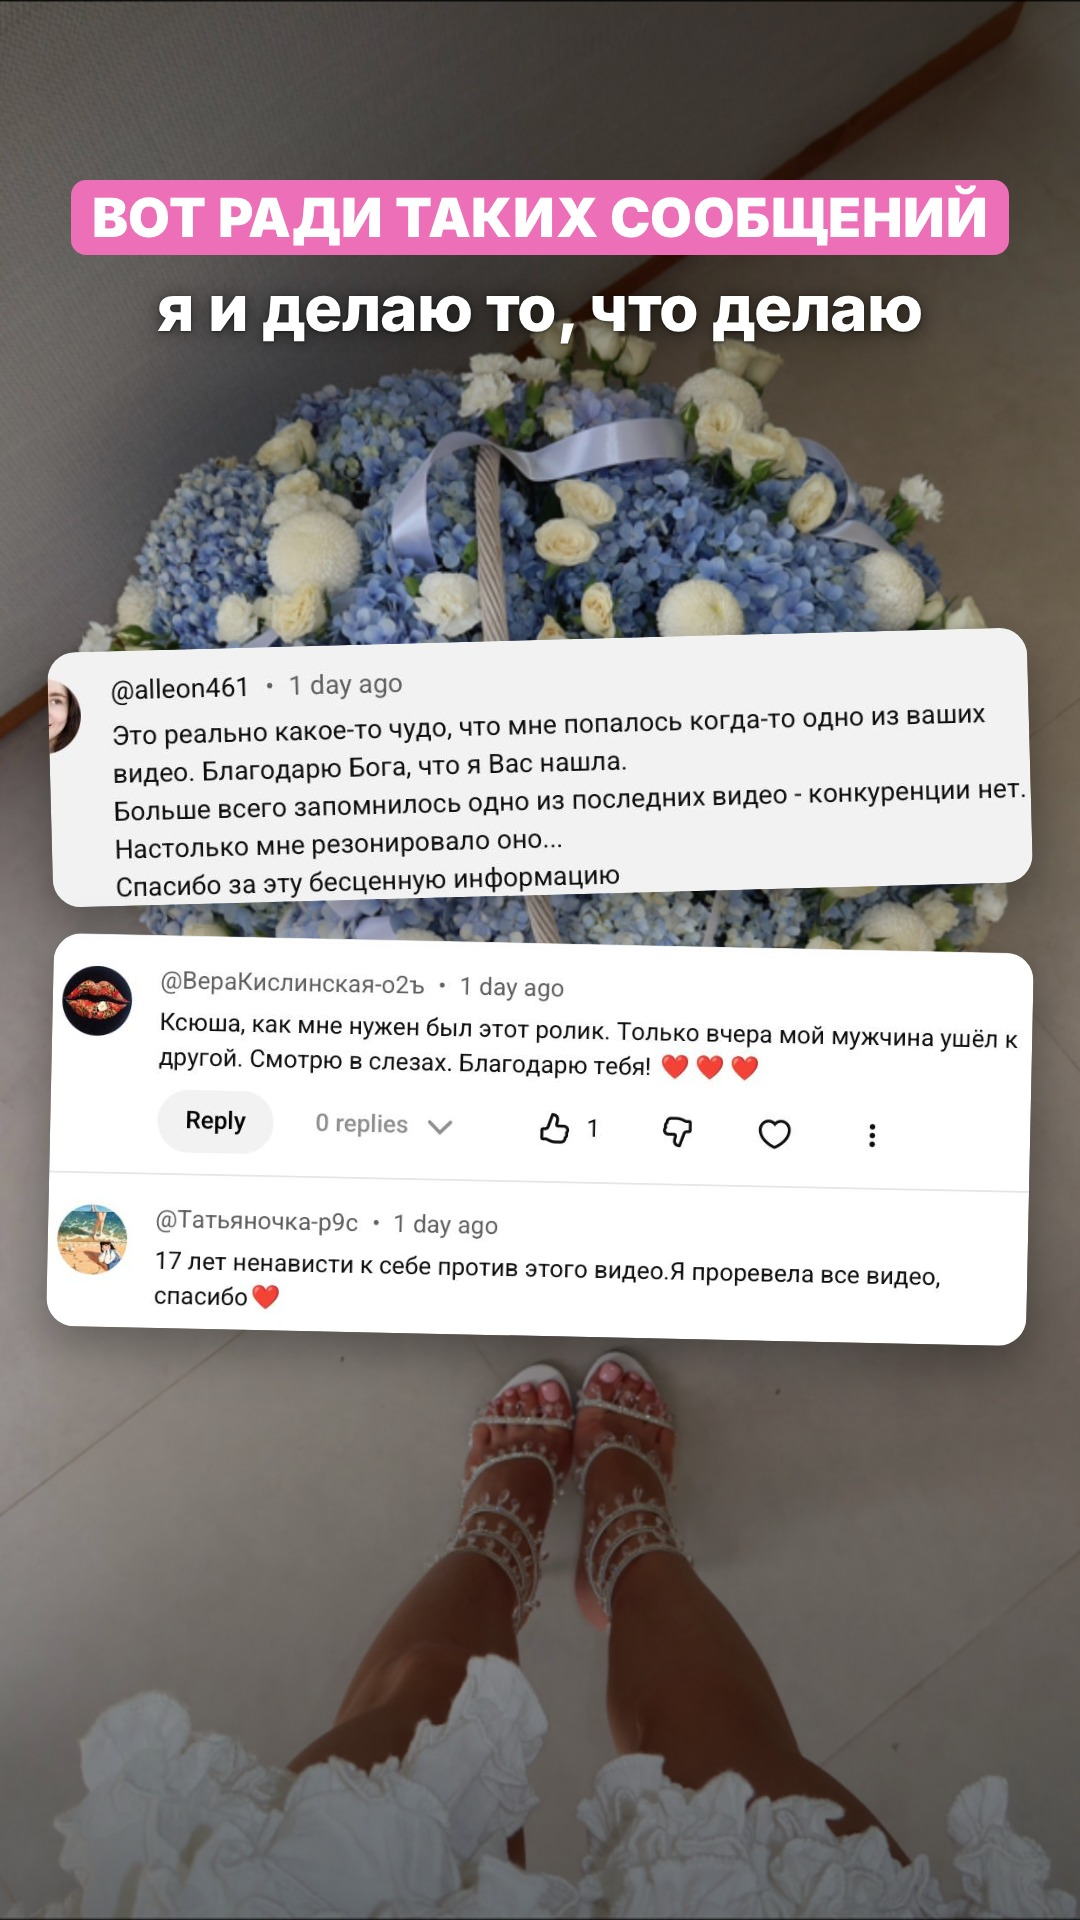
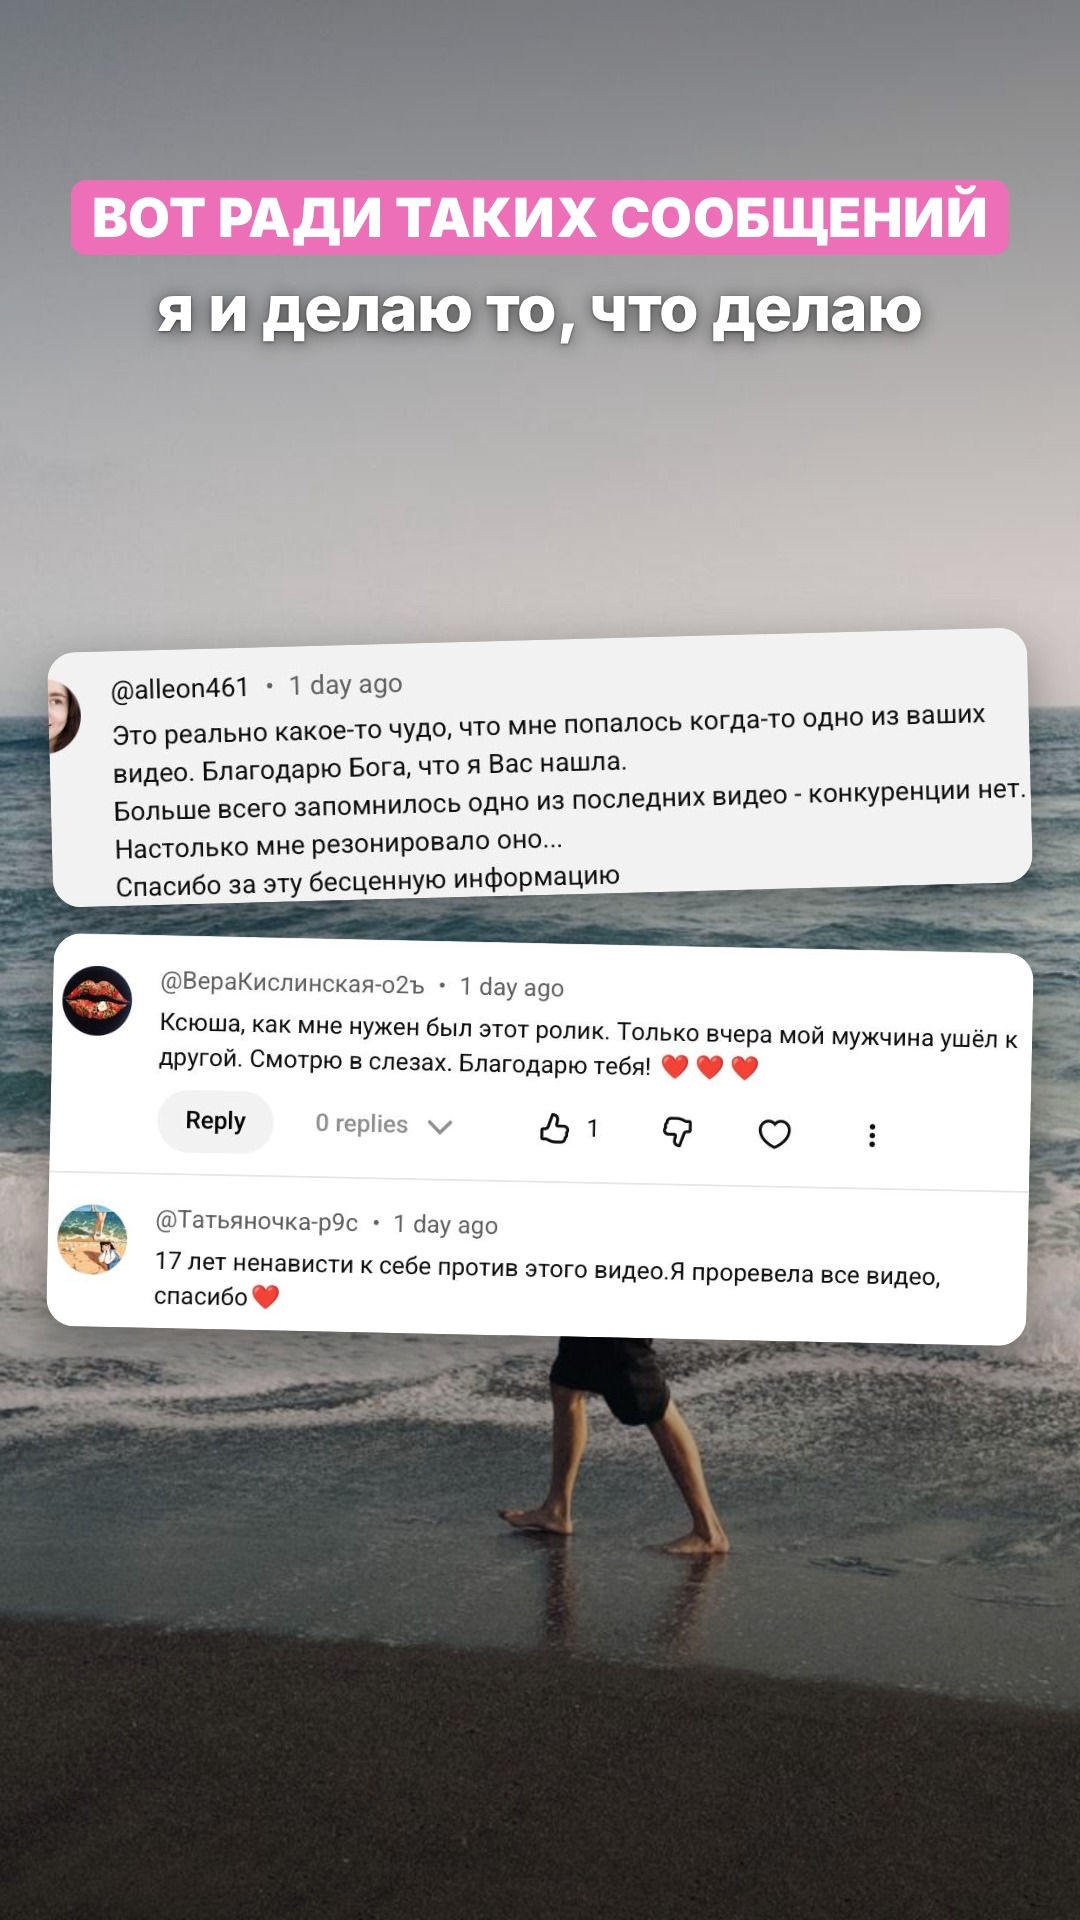
Сторис: белая плашка на «задевает», обычный шрифт в заметках, новые фоны для 6, 7, 11, 17
Claude-Session: https://claude.ai/code/session_01QvxPhZFmoV4wpS6odsdhe8

diff --git a/guides/src/stories.js b/guides/src/stories.js
@@ -25,30 +25,30 @@ module.exports = ({ P, W, B, E, I, GAP, p, T, SM, N }) => [
     { top: 1000, items: [I('s07.JPG', 960)] },
   ] },
   // 6 — комментарии
-  { bg:'03.jpg', groups: [
+  { bg:'20.jpg', pos:'50% 20%', groups: [
     { top: 200, items: [P('ПОСМОТРИТЕ, ЧТО ВЫ ПИШЕТЕ', 50)] },
     { top: 560, items: [I('s14.JPG', 960, -1.5), GAP(16), I('s10.JPG', 960, 1.5), GAP(16), I('s09.JPG', 960, -1)] },
   ] },
   // 7 — ради таких сообщений
-  { bg:'24.jpg', groups: [
+  { bg:'23.jpg', pos:'50% 80%', groups: [
     { top: 180, items: [P('ВОТ РАДИ ТАКИХ СООБЩЕНИЙ', 54), T('я и делаю то, что делаю', 64)] },
     { top: 640, items: [I('s15.JPG', 980, -1.5), GAP(20), I('s11.JPG', 980, 1.2)] },
   ] },
   // 8 — боль
-  { bg:'19.jpg', groups: [
-    { top: 620, items: [P('НО ЗНАЕТЕ, ЧТО МЕНЯ ЗАДЕВАЕТ?', 52), GAP(10), T('Сколько девушек<br>прямо сейчас страдают<br>из-за отношений…', 80)] },
+  { bg:'19.jpg', shade:'rgba(0,0,0,.35)', groups: [
+    { top: 620, items: [P('НО ЗНАЕТЕ, ЧТО МЕНЯ ЗАДЕВАЕТ?', 52), GAP(10), W('Сколько девушек прямо сейчас<br>страдают из-за отношений…', 56)] },
   ] },
   // 9 — заметка с фразами
   { bg:'02.jpg', groups: [
     { top: 300, items: [P('Я КАЖДЫЙ ДЕНЬ ЧИТАЮ:', 56)] },
-    { top: 520, items: [N('— «Я опять выбрала не того…»<br>— «Он пропадает, а я продолжаю ждать…»<br>— «Он пишет раз в три дня, а я живу от сообщения до сообщения»<br>— «Все подруги замужем, а я одна»<br>— «Я красивая, успешная, но почему меня никто не выбирает?»<br><br><b>И многие думают, что проблема в них самих…</b>', 42)] },
+    { top: 520, items: [N('— «Я опять выбрала не того…»<br>— «Он пропадает, а я продолжаю ждать…»<br>— «Он пишет раз в три дня, а я живу от сообщения до сообщения»<br>— «Все подруги замужем, а я одна»<br>— «Я красивая, успешная, но почему меня никто не выбирает?»<br><br>И многие думают, что <b>проблема в них самих…</b>', 42)] },
   ] },
   // 10 — опрос (место под стикер в центре)
   { bg:'26.jpg', groups: [
     { top: 150, items: [P('А ТЫ ХОТЯ БЫ РАЗ', 56), T('чувствовала что-то<br>подобное?', 80)] },
   ] },
   // 11 — идея, заметка на размытом фоне
-  { bg:'18.jpg', filter:'blur(34px) brightness(.95) saturate(1.2)', groups: [
+  { bg:'03.jpg', groups: [
     { top: 300, items: [P('И ВОТ КАКАЯ ИДЕЯ', 56), T('пришла мне в голову…', 70)] },
     { top: 700, items: [N(`Я физически не могу ответить на тысячи ваших сообщений.<br><br>А за каждым — настоящая девушка со своей историей.<br><br>Мне хочется не просто записывать видео, а <span class=acc>лично поговорить с вами</span> и помочь разобраться`, 44)] },
   ] },
@@ -78,7 +78,7 @@ module.exports = ({ P, W, B, E, I, GAP, p, T, SM, N }) => [
     { top: 1150, items: [P('Я РАЗБЕРУ ТОЛЬКО 5 ИСТОРИЙ', 50), T('А вдруг одна из них —<br>твоя?', 78), GAP(6), SM('Можно анонимно', 44)] },
   ] },
   // 17 — финал, отсчёт
-  { bg:'21.jpg', filter:'saturate(1.1)', groups: [
+  { bg:'24.jpg', groups: [
     { top: 300, items: [P('Я УЖЕ В ПРЕДВКУШЕНИИ', 56), T('нашей встречи!!!', 80), GAP(6), SM('Уже выбираю, в чём буду с вами', 44)] },
     { top: 1400, items: [P('25 ОКТЯБРЯ · 15:00 МСК', 56), SM('Заходи, пока комната открыта', 46)] },
   ] },

diff --git a/guides/src/stories_render.js b/guides/src/stories_render.js
@@ -39,7 +39,7 @@ function item(it) {
 function html(s) {
   const groups = s.groups.map(g => `<div class=grp style="top:${g.top}px;${g.w ? `width:${g.w}px;left:${(1080 - g.w) / 2}px` : ''}">${g.items.map(item).join('')}</div>`).join('');
   return `<!doctype html><html><head><meta charset=utf-8><style>
-${[700, 800, 900].map(font).join('\n')}
+${[400, 700, 800, 900].map(font).join('\n')}
 *{margin:0;padding:0;box-sizing:border-box}
 body{width:1080px;height:1920px;overflow:hidden;background:#111;font-family:I,'Noto Color Emoji',sans-serif}
 .bg{position:absolute;inset:0;width:1080px;height:1920px;object-fit:cover;object-position:${s.pos || 'center'};filter:${s.filter || 'none'}}
@@ -59,7 +59,7 @@ body{width:1080px;height:1920px;overflow:hidden;background:#111;font-family:I,'N
 .txt{font-weight:800;color:#fff;line-height:1.15;letter-spacing:-.01em;text-shadow:0 2px 18px rgba(0,0,0,.55),0 1px 3px rgba(0,0,0,.5)}
 .sm{font-weight:700;color:#fff;line-height:1.3;text-shadow:0 2px 12px rgba(0,0,0,.6),0 1px 3px rgba(0,0,0,.5)}
 .txt .acc,.sm .acc{color:#ff8fcf}
-.note{background:#fff;color:#151515;border-radius:30px;padding:40px 44px;text-align:left;font-weight:600;line-height:1.45;width:900px;box-shadow:0 18px 50px rgba(0,0,0,.3)}
+.note{background:#fff;color:#151515;border-radius:30px;padding:40px 44px;text-align:left;font-weight:400;line-height:1.45;width:900px;box-shadow:0 18px 50px rgba(0,0,0,.3)}
 .note b{font-weight:800}
 .note .acc{font-weight:800}
 .lblw{display:inline-block}
